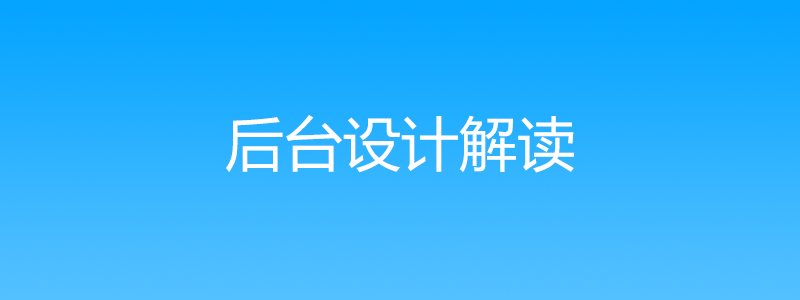
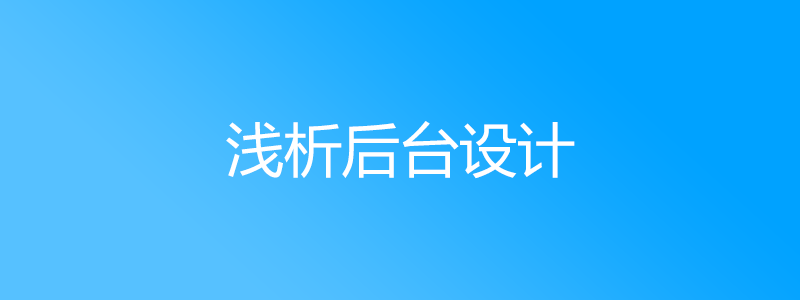
Site updated: 2018-10-01 23:21:43

diff --git a/2018/07/20/浅析后台设计/index.html b/2018/07/20/浅析后台设计/index.html
@@ -87,7 +87,7 @@
 <meta property="og:description" content="后台的本质后台逻辑设计=产品没有华丽的交互、没有华丽布界面布局，重要的是产品逻辑 前台——货柜后台——服务员  搞清楚系统“展示”和“控制”的映射关系。前台的信息是后台提供的，后台对数据的操作，输入数据，会通过前台将数据展示出来。 后台的设计后台来实现管理的作用，首先我们要明确后台管理的是什么，分为不同的管理目标。分类是后台设计的基本思维。 后台设计首先要梳理业务流程，知道前后台的工作流程和操作步">
 <meta property="og:locale" content="zh-Hans">
 <meta property="og:image" content="http://yoursite.com/img/封面/浅析后台设计.png">
-<meta property="og:updated_time" content="2018-10-01T14:57:23.000Z">
+<meta property="og:updated_time" content="2018-10-01T15:20:02.000Z">
 <meta name="twitter:card" content="summary">
 <meta name="twitter:title" content="浅析后台设计">
 <meta name="twitter:description" content="后台的本质后台逻辑设计=产品没有华丽的交互、没有华丽布界面布局，重要的是产品逻辑 前台——货柜后台——服务员  搞清楚系统“展示”和“控制”的映射关系。前台的信息是后台提供的，后台对数据的操作，输入数据，会通过前台将数据展示出来。 后台的设计后台来实现管理的作用，首先我们要明确后台管理的是什么，分为不同的管理目标。分类是后台设计的基本思维。 后台设计首先要梳理业务流程，知道前后台的工作流程和操作步">
@@ -345,7 +345,7 @@
           
             <div class="post-gallery-row">
               <a class="post-gallery-img fancybox"
-                 href="/img/封面/浅析后台设计.png" rel="gallery_cjmqfqzjc0008bfs62gh78mqz"
+                 href="/img/封面/浅析后台设计.png" rel="gallery_cjmqfzagc0009e4s6o9psop61"
                  itemscope itemtype="http://schema.org/ImageObject" itemprop="url">
                 <img src="/img/封面/浅析后台设计.png" itemprop="contentUrl"/>
               </a>
@@ -360,7 +360,7 @@
       
         <h1 id="后台的本质"><a href="#后台的本质" class="headerlink" title="后台的本质"></a>后台的本质</h1><p>后台逻辑设计=产品<br>没有华丽的交互、没有华丽布界面布局，重要的是产品逻辑</p>
 <p>前台——货柜<br>后台——服务员</p>
-<p><img src="/img/后台设计解读/后台的本质.png" alt="后台的本质"></p>
+<p><img src="/img/浅析后台设计/后台的本质.png" alt="后台的本质"></p>
 <p>搞清楚系统“展示”和“控制”的映射关系。前台的信息是后台提供的，后台对数据的操作，输入数据，会通过前台将数据展示出来。</p>
 <h1 id="后台的设计"><a href="#后台的设计" class="headerlink" title="后台的设计"></a>后台的设计</h1><p>后台来实现管理的作用，首先我们要明确后台管理的是什么，分为不同的管理目标。分类是后台设计的基本思维。</p>
 <p>后台设计首先要梳理业务流程，知道前后台的工作流程和操作步骤之间的关系，知道系统中存在哪些角色的用户，不同信息之间有怎样的权限划分。</p>

diff --git a/index.html b/index.html
@@ -342,7 +342,7 @@
           
             <div class="post-gallery-row">
               <a class="post-gallery-img fancybox"
-                 href="/img/封面/浅析后台设计.png" rel="gallery_cjmqfqzjc0008bfs62gh78mqz"
+                 href="/img/封面/浅析后台设计.png" rel="gallery_cjmqfzagc0009e4s6o9psop61"
                  itemscope itemtype="http://schema.org/ImageObject" itemprop="url">
                 <img src="/img/封面/浅析后台设计.png" itemprop="contentUrl"/>
               </a>
@@ -518,7 +518,7 @@
           
             <div class="post-gallery-row">
               <a class="post-gallery-img fancybox"
-                 href="/img/封面/竞品分析之设计篇.png" rel="gallery_cjmqfqzjk000abfs6in6j6g6x"
+                 href="/img/封面/竞品分析之设计篇.png" rel="gallery_cjmqfzagj000be4s60z6ntg7m"
                  itemscope itemtype="http://schema.org/ImageObject" itemprop="url">
                 <img src="/img/封面/竞品分析之设计篇.png" itemprop="contentUrl"/>
               </a>
@@ -852,7 +852,7 @@ K12在线教育移动端竞品分析-设计篇
           
             <div class="post-gallery-row">
               <a class="post-gallery-img fancybox"
-                 href="/img/封面/竞品分析之产品篇.png" rel="gallery_cjmqfqzjg0009bfs6ck9u0fjp"
+                 href="/img/封面/竞品分析之产品篇.png" rel="gallery_cjmqfzagg000ae4s6f7g1uymv"
                  itemscope itemtype="http://schema.org/ImageObject" itemprop="url">
                 <img src="/img/封面/竞品分析之产品篇.png" itemprop="contentUrl"/>
               </a>
@@ -1503,7 +1503,7 @@ K12移动端教育产品的竞品分析之产品篇
           
             <div class="post-gallery-row">
               <a class="post-gallery-img fancybox"
-                 href="/img/封面/2017年中复盘.png" rel="gallery_cjmqfqzi50000bfs66fmqazku"
+                 href="/img/封面/2017年中复盘.png" rel="gallery_cjmqfzaf20000e4s6hsjecnmr"
                  itemscope itemtype="http://schema.org/ImageObject" itemprop="url">
                 <img src="/img/封面/2017年中复盘.png" itemprop="contentUrl"/>
               </a>
@@ -1838,7 +1838,7 @@ K12移动端教育产品的竞品分析之产品篇
           
             <div class="post-gallery-row">
               <a class="post-gallery-img fancybox"
-                 href="/img/封面/交互文档规范的总结.png" rel="gallery_cjmqfqziv0004bfs61sl2kmzu"
+                 href="/img/封面/交互文档规范的总结.png" rel="gallery_cjmqfzafu0004e4s66v44ixx4"
                  itemscope itemtype="http://schema.org/ImageObject" itemprop="url">
                 <img src="/img/封面/交互文档规范的总结.png" itemprop="contentUrl"/>
               </a>

diff --git a/2017/04/04/交互文档规范的总结/index.html b/2017/04/04/交互文档规范的总结/index.html
@@ -345,7 +345,7 @@
           
             <div class="post-gallery-row">
               <a class="post-gallery-img fancybox"
-                 href="/img/封面/交互文档规范的总结.png" rel="gallery_cjmqfqziv0004bfs61sl2kmzu"
+                 href="/img/封面/交互文档规范的总结.png" rel="gallery_cjmqfzafu0004e4s66v44ixx4"
                  itemscope itemtype="http://schema.org/ImageObject" itemprop="url">
                 <img src="/img/封面/交互文档规范的总结.png" itemprop="contentUrl"/>
               </a>

diff --git a/2018/03/21/竞品分析之产品篇/index.html b/2018/03/21/竞品分析之产品篇/index.html
@@ -345,7 +345,7 @@
           
             <div class="post-gallery-row">
               <a class="post-gallery-img fancybox"
-                 href="/img/封面/竞品分析之产品篇.png" rel="gallery_cjmqfqzjg0009bfs6ck9u0fjp"
+                 href="/img/封面/竞品分析之产品篇.png" rel="gallery_cjmqfzagg000ae4s6f7g1uymv"
                  itemscope itemtype="http://schema.org/ImageObject" itemprop="url">
                 <img src="/img/封面/竞品分析之产品篇.png" itemprop="contentUrl"/>
               </a>

diff --git a/2018/04/24/竞品分析之设计篇/index.html b/2018/04/24/竞品分析之设计篇/index.html
@@ -345,7 +345,7 @@
           
             <div class="post-gallery-row">
               <a class="post-gallery-img fancybox"
-                 href="/img/封面/竞品分析之设计篇.png" rel="gallery_cjmqfqzjk000abfs6in6j6g6x"
+                 href="/img/封面/竞品分析之设计篇.png" rel="gallery_cjmqfzagj000be4s60z6ntg7m"
                  itemscope itemtype="http://schema.org/ImageObject" itemprop="url">
                 <img src="/img/封面/竞品分析之设计篇.png" itemprop="contentUrl"/>
               </a>

diff --git a/2017/10/01/2017年中复盘/index.html b/2017/10/01/2017年中复盘/index.html
@@ -345,7 +345,7 @@
           
             <div class="post-gallery-row">
               <a class="post-gallery-img fancybox"
-                 href="/img/封面/2017年中复盘.png" rel="gallery_cjmqfqzi50000bfs66fmqazku"
+                 href="/img/封面/2017年中复盘.png" rel="gallery_cjmqfzaf20000e4s6hsjecnmr"
                  itemscope itemtype="http://schema.org/ImageObject" itemprop="url">
                 <img src="/img/封面/2017年中复盘.png" itemprop="contentUrl"/>
               </a>

diff --git a/css/main.css b/css/main.css
@@ -1823,7 +1823,7 @@ pre .javascript .function {
   width: 4px;
   height: 4px;
   border-radius: 50%;
-  background: #b6c6d5;
+  background: #d9ffff;
 }
 .links-of-blogroll {
   font-size: 13px;
